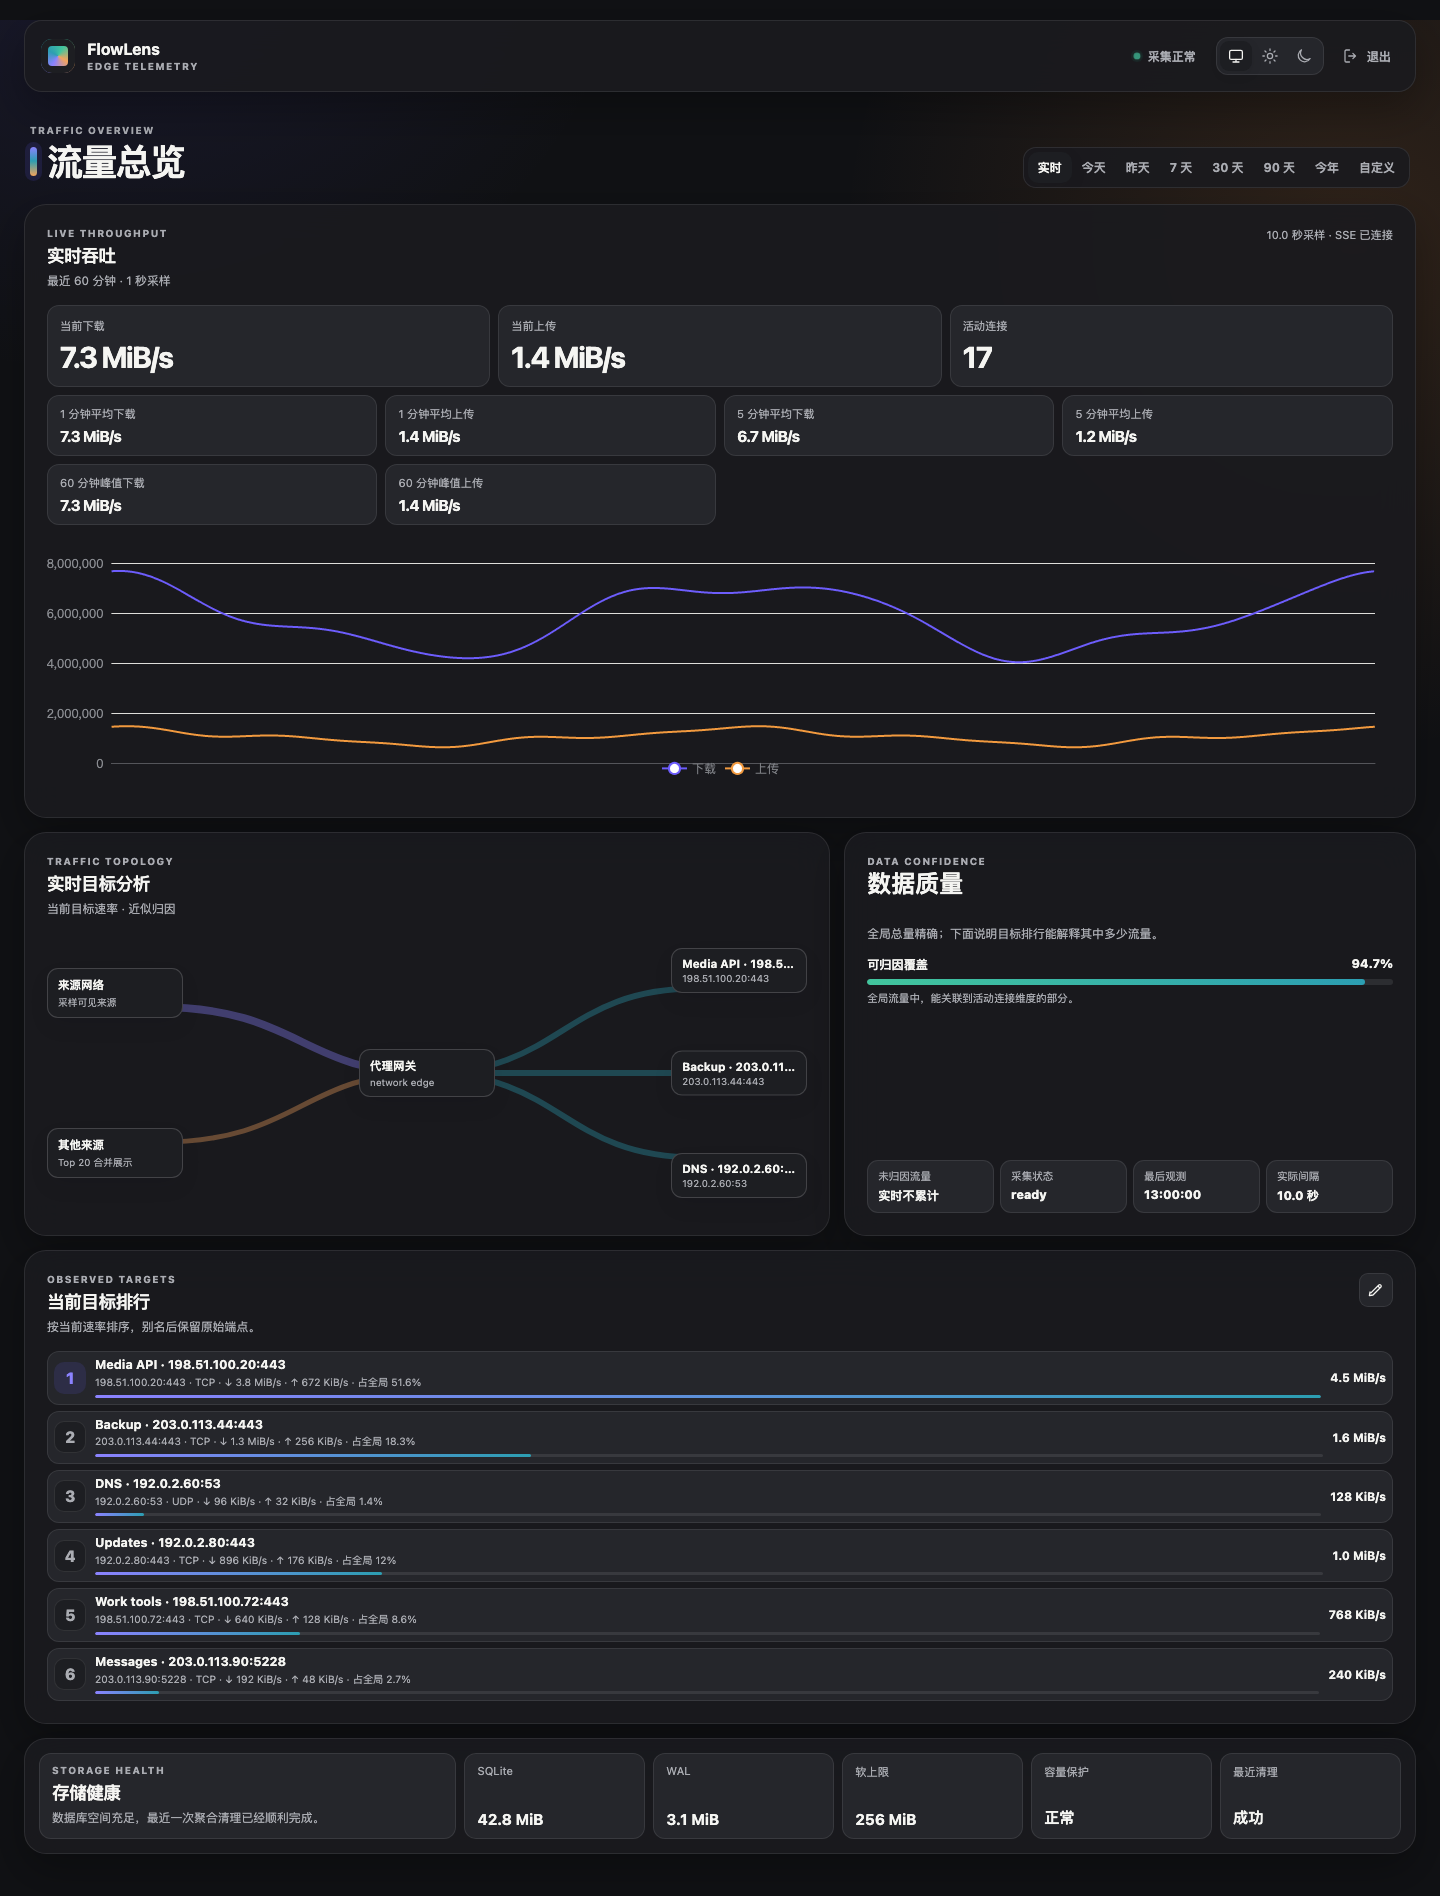
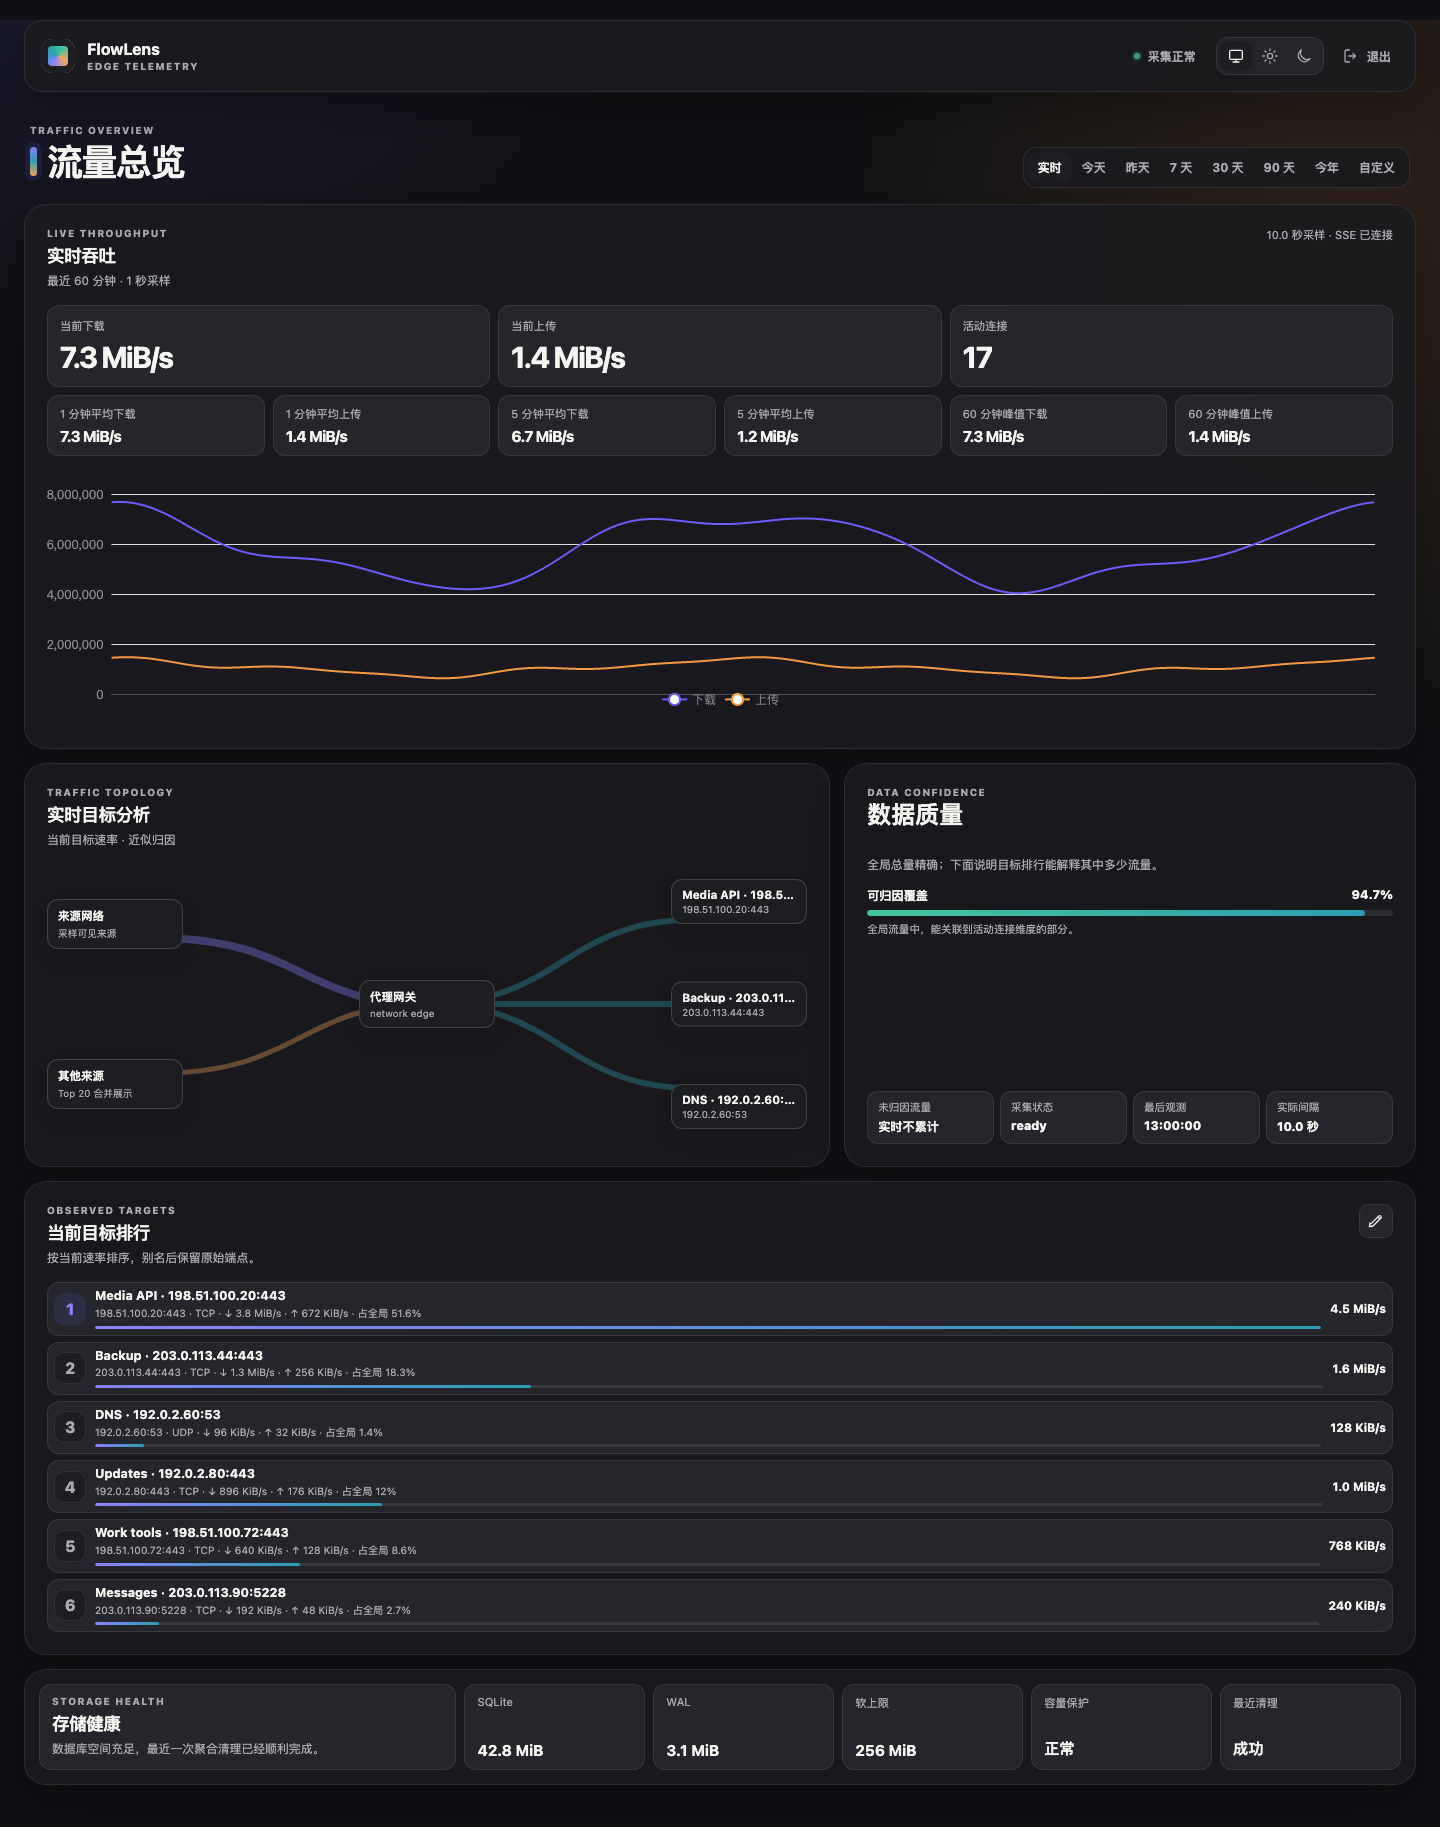
fix: compact live traffic metrics

diff --git a/test/e2e/stage4-demo.spec.ts b/test/e2e/stage4-demo.spec.ts
@@ -52,6 +52,20 @@ test("offline Demo exposes one rich responsive statistics dashboard", async ({
   await expect(page.getByText("1 分钟平均下载")).toBeVisible();
   await expect(page.getByText("5 分钟平均上传")).toBeVisible();
   await expect(page.getByText("60 分钟峰值下载")).toBeVisible();
+  const liveMetricBoxes = await page
+    .locator(".metric-grid .chart-value")
+    .evaluateAll((elements) =>
+      elements.map((element) => {
+        const box = element.getBoundingClientRect();
+        return { x: box.x, y: box.y };
+      }),
+    );
+  expect(liveMetricBoxes).toHaveLength(6);
+  expect(
+    liveMetricBoxes.every(
+      (box) => Math.abs(box.y - liveMetricBoxes[0]!.y) < 2,
+    ),
+  ).toBe(true);
   await expect(page.getByText(/占全局 51\.6%/)).toBeVisible();
   const topologyBox = await page.locator(".topology-panel").boundingBox();
   const confidenceBox = await page.locator(".confidence-panel").boundingBox();

diff --git a/web/src/styles/layout.css b/web/src/styles/layout.css
@@ -331,7 +331,7 @@
 }
 .metric-grid {
   display: grid;
-  grid-template-columns: repeat(4, minmax(0, 1fr));
+  grid-template-columns: repeat(6, minmax(0, 1fr));
   gap: 8px;
   margin-bottom: 10px;
 }
@@ -496,6 +496,9 @@
   }
   .storage-panel {
     grid-template-columns: repeat(2, 1fr);
+  }
+  .metric-grid {
+    grid-template-columns: repeat(3, minmax(0, 1fr));
   }
   .storage-lead {
     grid-column: 1 / -1;